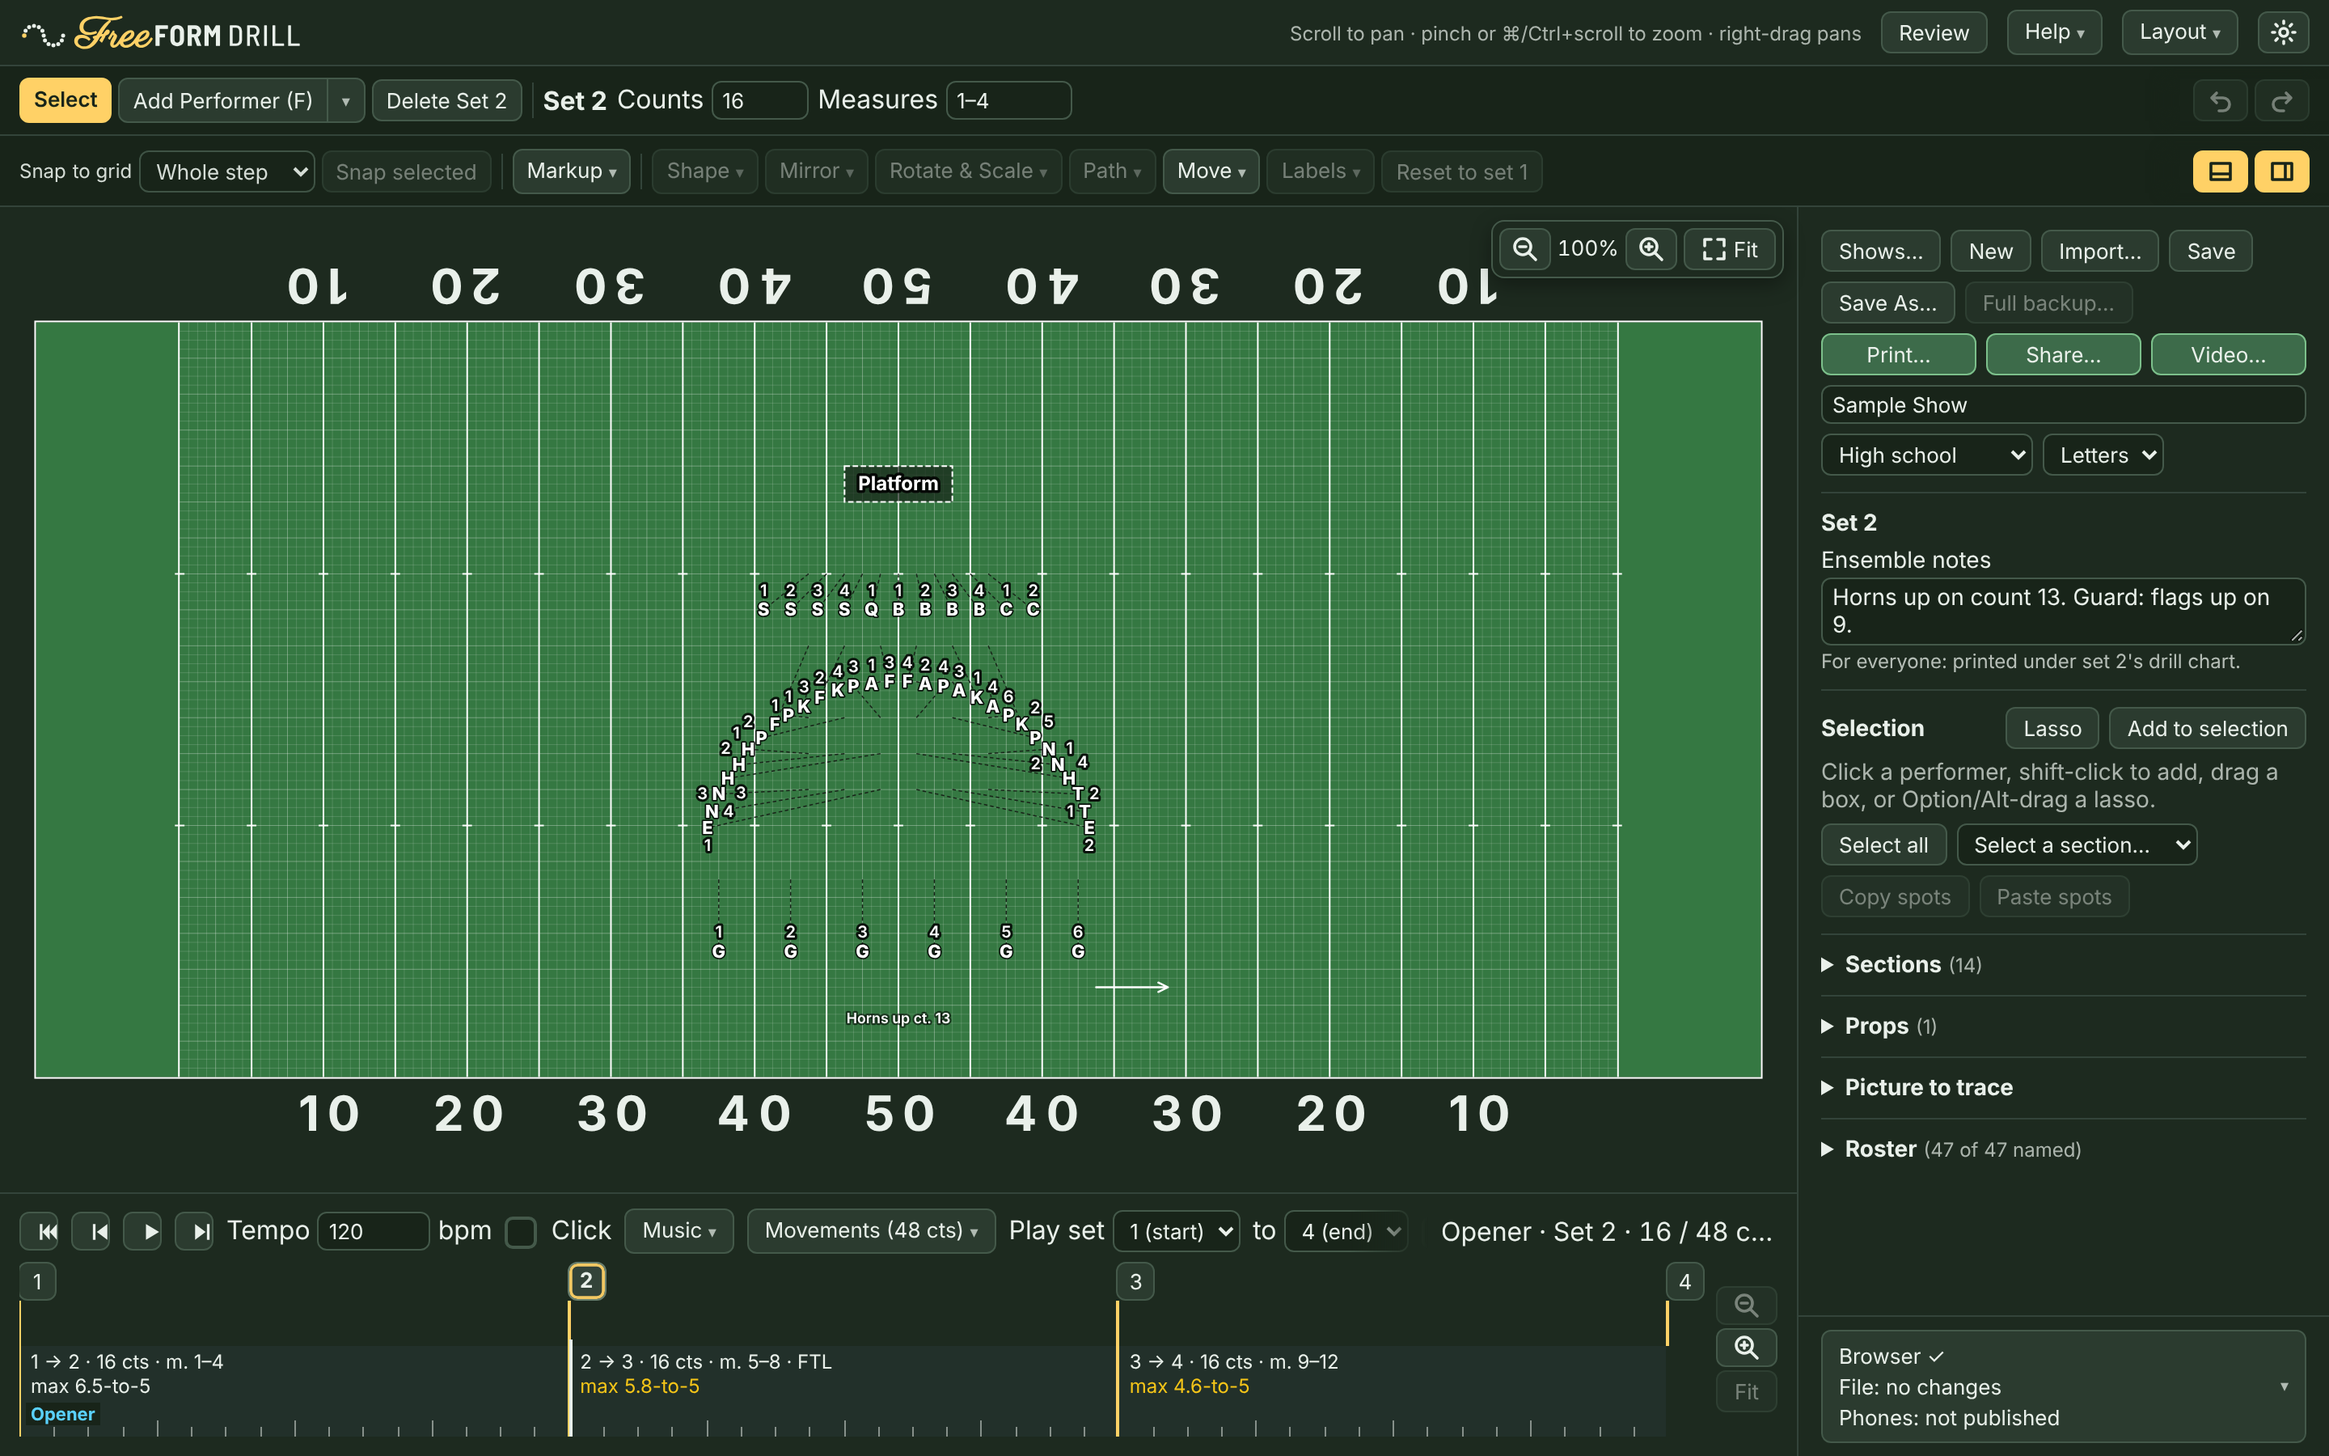
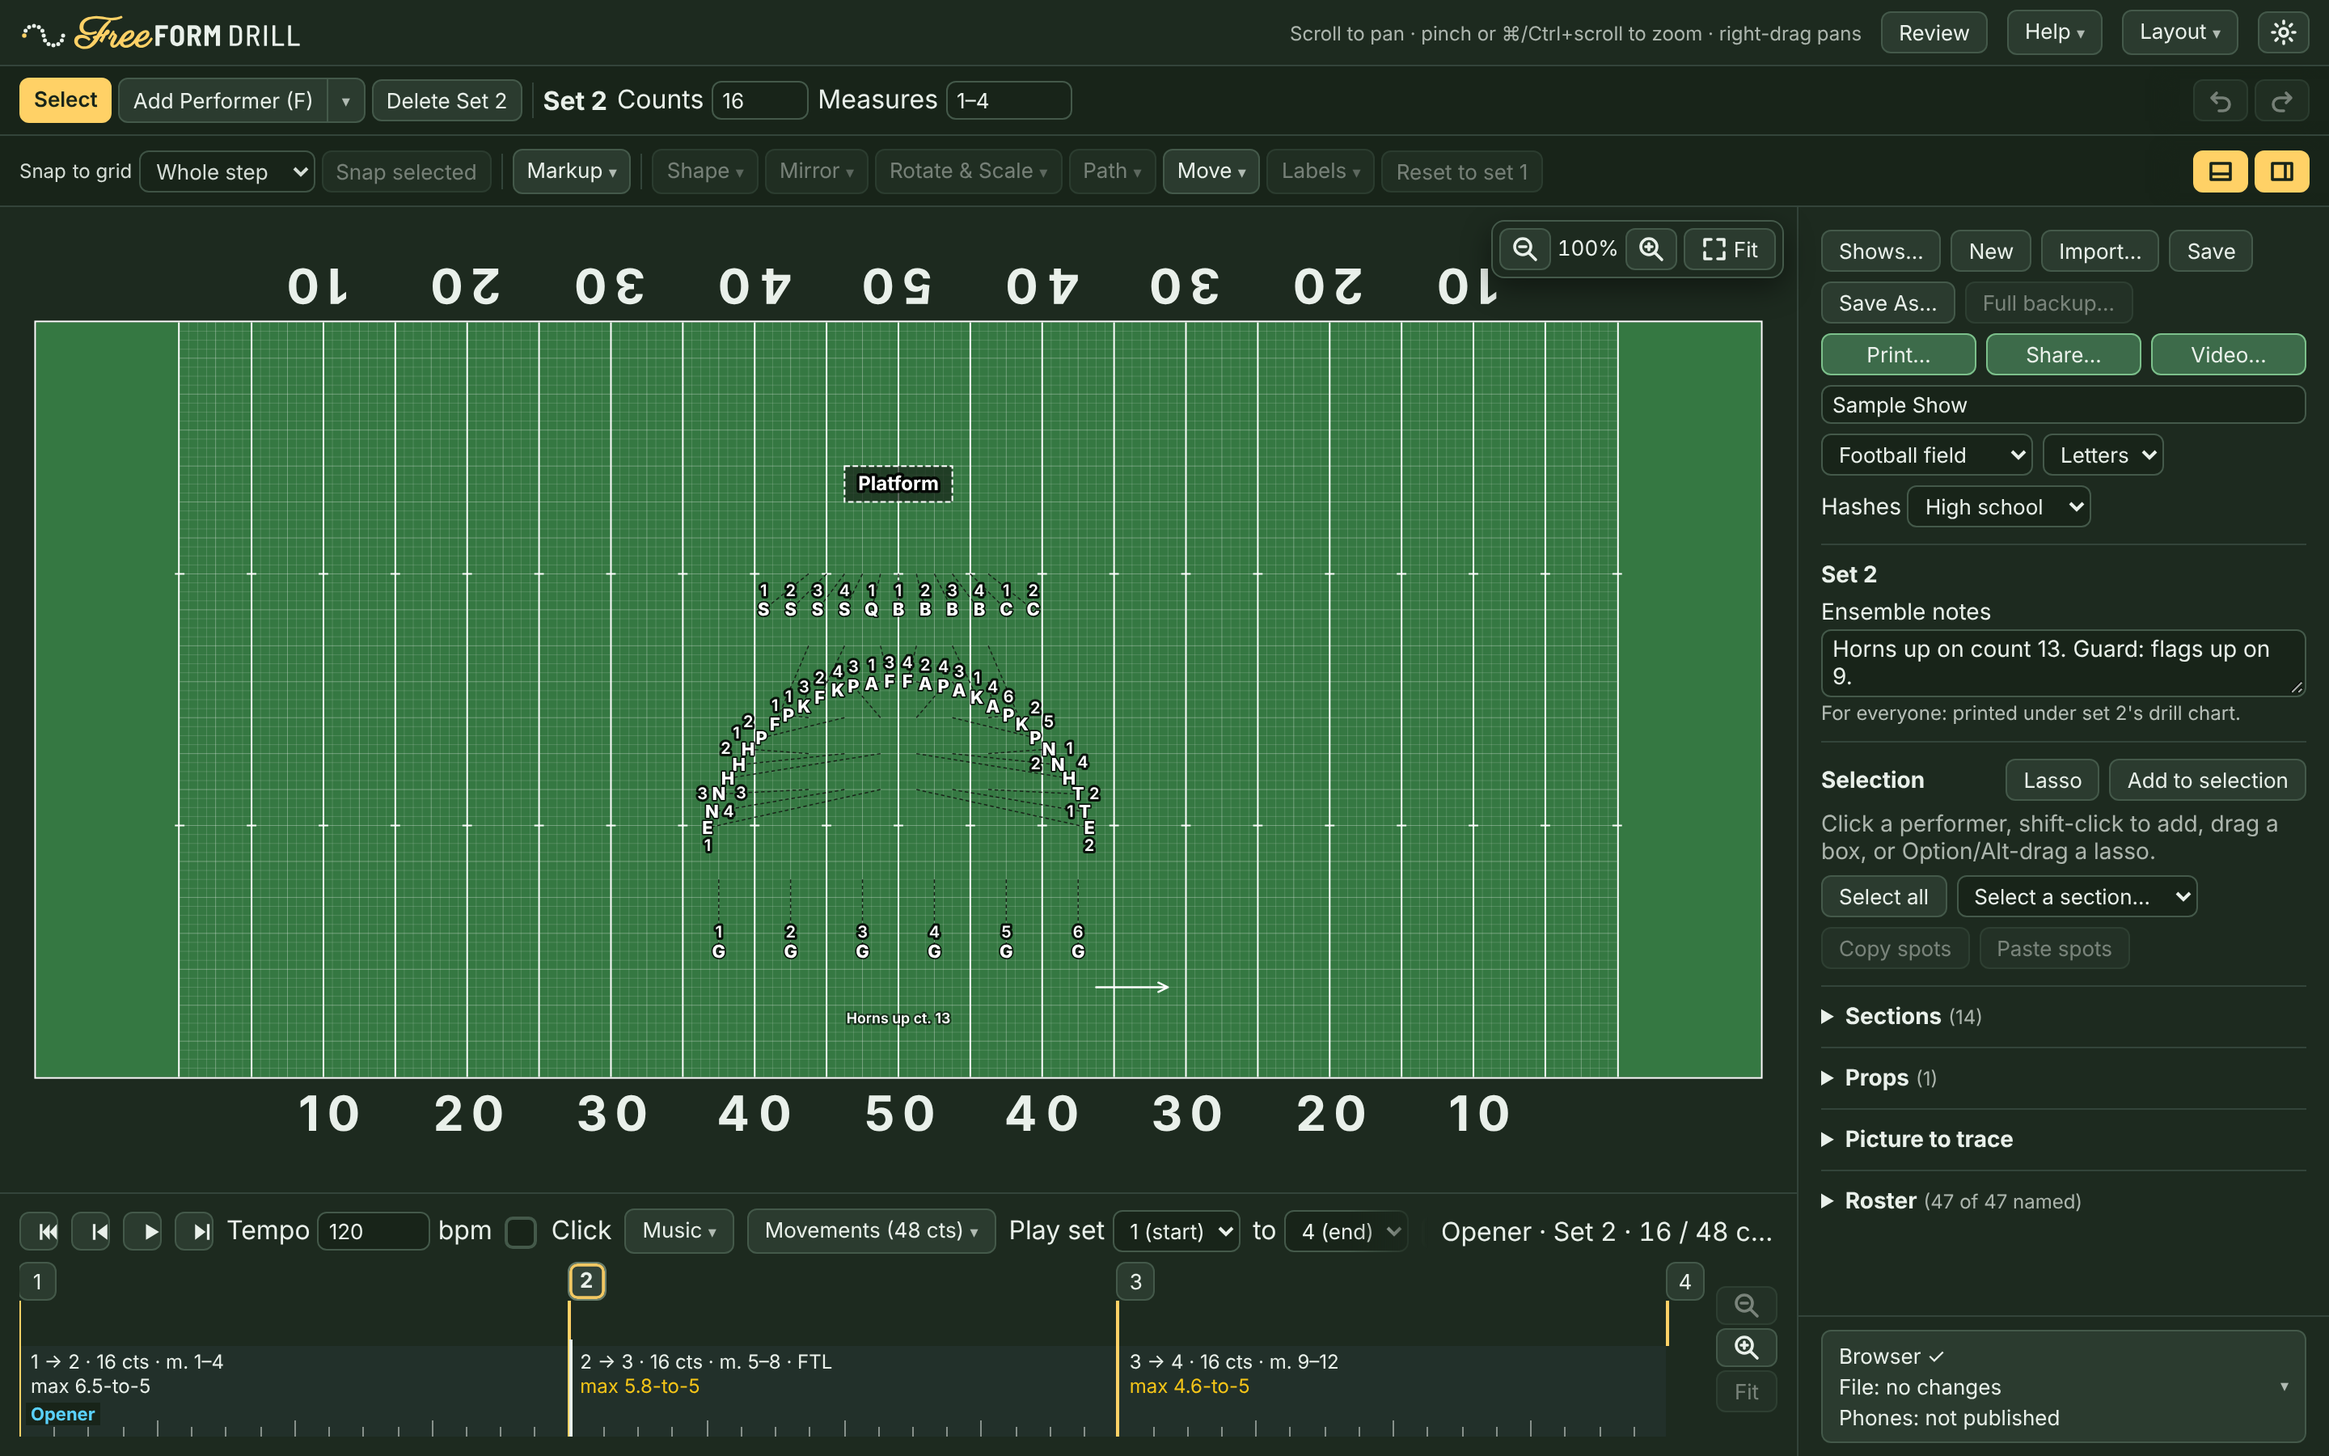
Field menu: Football field, then its hashes
The Field menu is now Football field, Basketball court, or Custom floor.
A Hashes menu (High school, College / DCI, NFL) sits beside it for a
football field, the way Wide and Deep do for a custom floor. Going back
outside keeps the show's earlier hashes, and changing hashes under
written drill still asks what should happen to it.

Claude-Session: https://claude.ai/code/session_012ak5ZS3L4T9KZWp1AvkgHU

Changed region(s): [[0.7812, 0.3111, 1.0, 0.84]]

diff --git a/src/ui/FieldPicker.tsx b/src/ui/FieldPicker.tsx
@@ -1,28 +1,38 @@
-// Choosing what a show is written on: the sidebar's menu, the New show dialog, and the blank field's Start note.
+// Choosing what a show is written on: the sidebar, the New show box, and the blank field's Start note.
+// Two steps: the surface (a football field, a basketball court, or a custom floor), then its details
+// (a football field's hashes, or a floor's size).
 import type React from 'react';
 import { COURT, DEFAULT_FLOOR, FEET, type FieldSpec, type HashPreset } from '../engine/coords';
 import { NumberField } from './NumberField';
 
 export const PRESETS: [HashPreset, string][] = [['highSchool', 'High school'], ['college', 'College / DCI'], ['nfl', 'NFL']];
-export const TITLE = 'What the show is written on: a football field (by its hashes), a basketball court, or a floor or tarp you size';
 
-/** The field menu. Picking a floor that's already a floor keeps its size. */
-export function FieldSelect({ value, onChange, style }: { value: FieldSpec; onChange: (f: FieldSpec) => void; style?: React.CSSProperties }) {
+/**
+ * The surface menu. Picking a football field again keeps the hashes; going back outside uses `outside` (the show's
+ * kept hashes); picking a floor that's already a floor keeps its size.
+ */
+export function FieldSelect({ value, onChange, outside = 'highSchool', style }: { value: FieldSpec; onChange: (f: FieldSpec) => void; outside?: HashPreset; style?: React.CSSProperties }) {
   return (
-    <select aria-label="Field" title={TITLE} style={style} value={typeof value === 'string' ? value : value.kind} onChange={(e) => {
-      const to = e.target.value;
-      onChange(to === 'court' ? COURT : to === 'floor' ? (typeof value !== 'string' && value.kind === 'floor' ? value : DEFAULT_FLOOR) : to as HashPreset);
-    }}>
-      {PRESETS.map(([k, l]) => <option key={k} value={k}>{l}</option>)}
+    <select aria-label="Field" title="What the show is written on: a football field, a basketball court, or a floor or tarp you size" style={style}
+      value={typeof value === 'string' ? 'football' : value.kind} onChange={(e) => {
+        const to = e.target.value;
+        onChange(to === 'court' ? COURT : to === 'floor' ? (typeof value !== 'string' && value.kind === 'floor' ? value : DEFAULT_FLOOR) : typeof value === 'string' ? value : outside);
+      }}>
+      <option value="football">Football field</option>
       <option value="court">Basketball court</option>
       <option value="floor">Custom floor</option>
     </select>
   );
 }
 
-/** A custom floor's Wide and Deep, in feet. */
-export function FloorSize({ value, onChange }: { value: FieldSpec; onChange: (f: FieldSpec) => void }) {
-  if (typeof value === 'string' || value.kind !== 'floor') return null;
+/** The surface's details: a football field's **Hashes**, or a custom floor's **Wide** and **Deep** in feet (a court has none). */
+export function FieldDetails({ value, onChange }: { value: FieldSpec; onChange: (f: FieldSpec) => void }) {
+  if (typeof value === 'string') return (
+    <label>Hashes <select aria-label="Hashes" title="The football field's hash marks: high school, college or DCI, or NFL" value={value} onChange={(e) => onChange(e.target.value as HashPreset)}>
+      {PRESETS.map(([k, l]) => <option key={k} value={k}>{l}</option>)}
+    </select></label>
+  );
+  if (value.kind !== 'floor') return null;
   return <>
     <label>Wide <NumberField aria-label="Floor width in feet" min={8} max={700} step={1} value={Math.round(value.w / FEET)} style={{ width: 56 }}
       onValue={(n) => onChange({ ...value, w: n * FEET })} /></label>

diff --git a/src/ui/Sidebar.tsx b/src/ui/Sidebar.tsx
@@ -15,7 +15,7 @@ import {
   type FrontDir, type FrontRef, type Section, type Show, type SideDir,
 } from '../engine/show';
 import { NumberField } from './NumberField';
-import { FieldSelect, FloorSize, PRESETS } from './FieldPicker';
+import { FieldSelect, FieldDetails, PRESETS } from './FieldPicker';
 import { useDialog } from './useDialog';
 
 export type Tool = 'select' | 'add' | 'text' | 'arrow' | 'draw' | 'turn'; // turn: click to add an FTL leader's turning points
@@ -103,10 +103,8 @@ export function Sidebar(p: Props) {
       {p.fileError && <div role="alert" style={{ color: 'var(--danger)', marginTop: 6 }}>{p.fileError}</div>}
       <div style={{ ...row, marginBottom: 10 }}>
         <input aria-label="Show title" value={show.title} onChange={(e) => setShow((s) => ({ ...s, title: e.target.value }))} style={{ flex: 1 }} />
-        <FieldSelect value={fieldOf(show)} onChange={(f) => {
-          // Other hashes under written drill: ask what should happen to it. Onto or off a floor, spots stay put in steps.
-          if (typeof f === 'string' && !show.surface && show.performers.length) setPendingHash(f);
-          else setShow((s) => withField(s, f));
+        <FieldSelect value={fieldOf(show)} outside={show.hash} onChange={(f) => {
+          setShow((s) => withField(s, f)); // onto or off a floor: spots stay put in steps
         }} />
         <select aria-label="Draw performers as" title="On the field, printed charts, and phones: the section letter labeled with the number, or a dot labeled P4"
           value={show.symbols ?? 'letters'} onChange={(e) => setShow((s) => { const { symbols: _, ...rest } = s, v = e.target.value; return v === 'dots' ? { ...rest, symbols: v } : rest; })}>
@@ -114,9 +112,13 @@ export function Sidebar(p: Props) {
           <option value="dots">Dots</option>
         </select>
       </div>
-      {show.surface?.kind === 'floor' && (
+      {show.surface?.kind !== 'court' && (
         <div style={{ ...row, marginTop: -4, marginBottom: 10 }}>
-          <FloorSize value={show.surface} onChange={(f) => setShow((s) => withField(s, f))} />
+          <FieldDetails value={fieldOf(show)} onChange={(f) => {
+            // Other hashes under written drill: ask what should happen to it.
+            if (typeof f === 'string' && show.performers.length) setPendingHash(f);
+            else setShow((s) => withField(s, f));
+          }} />
         </div>
       )}
       {show.surface && show.performers.some((x) => show.sets.some((st) => { const q = st.pos[x.id]; return q && (Math.abs(q.x) > show.surface!.w / 2 || q.y < 0 || q.y > show.surface!.d); })) && (

diff --git a/src/App.tsx b/src/App.tsx
@@ -20,7 +20,7 @@ import { Timeline } from './ui/Timeline';
 import { startingSections } from './ui/startingSections';
 import { saveStartingField, startingField } from './ui/startingField';
 import { NewShowDialog } from './ui/NewShow';
-import { FieldSelect, FloorSize } from './ui/FieldPicker';
+import { FieldSelect, FieldDetails } from './ui/FieldPicker';
 import { MusicMenu } from './ui/Music';
 import { getAudio, putAudio } from './ui/audioStore';
 import { addVersion, forgetShow, keepShow, listShows, loadShow, type Entry } from './ui/showStore';
@@ -396,7 +396,7 @@ export function App() {
   const pickField = (f: FieldSpec) => { setShow((s) => withField(s, f)); saveStartingField(f); };
   const startOptions = <>
     <span style={{ display: 'flex', gap: 6, alignItems: 'center', flexWrap: 'wrap', marginBottom: 6 }}>
-      Written on <FieldSelect value={fieldOf(show)} onChange={pickField} /> <FloorSize value={fieldOf(show)} onChange={pickField} />
+      Written on <FieldSelect value={fieldOf(show)} outside={show.hash} onChange={pickField} /> <FieldDetails value={fieldOf(show)} onChange={pickField} />
     </span>
     <span>Place performers on the field (or props first, like a stage or a backdrop), bring in a roster from Excel, or look around the sample show first. On a new computer? Open your show from its phone link or recovery code.</span>
     <span style={{ display: 'flex', gap: 8, flexWrap: 'wrap', marginTop: 6 }}>

diff --git a/src/ui/NewShow.tsx b/src/ui/NewShow.tsx
@@ -1,7 +1,7 @@
 // New show: name it and pick what it's written on before the blank field opens.
 import { useState } from 'react';
 import type { FieldSpec } from '../engine/coords';
-import { FieldSelect, FloorSize } from './FieldPicker';
+import { FieldSelect, FieldDetails } from './FieldPicker';
 import { startingField } from './startingField';
 import { useDialog } from './useDialog';
 
@@ -21,7 +21,7 @@ export function NewShowDialog({ onStart, onClose }: { onStart: (title: string, f
           <span>Written on</span>
           <span style={{ display: 'flex', gap: 6, alignItems: 'center', flexWrap: 'wrap' }}>
             <FieldSelect value={field} onChange={setField} />
-            <FloorSize value={field} onChange={setField} />
+            <FieldDetails value={field} onChange={setField} />
           </span>
           <span style={{ fontSize: 12, opacity: 0.75 }}>A football field by its hashes, a basketball court, or a floor or tarp you size. You can change it later in the sidebar.</span>
         </div>

diff --git a/docs/HOW-TO.md b/docs/HOW-TO.md
@@ -61,7 +61,7 @@ From top to bottom:
 
 ## Set up a new show
 
-Click **New** in the sidebar to start a show. A box asks for two things first: the show's **Title**, and what it's **Written on**: a football field (**High school**, **College / DCI**, or **NFL** hashes), a **Basketball court**, or a **Custom floor** with its **Wide** and **Deep** in feet (see step 2 below). It starts on whatever your last new show used, so a winter guard writer doesn't have to pick the floor every time. Click **Start the show**. You can change either one later in the sidebar. The show you had open stays in this browser: **Shows…** opens it again (see [Several shows: Opener, Ballad, Closer](#saving-backing-up-and-opening-files)).
+Click **New** in the sidebar to start a show. A box asks for two things first: the show's **Title**, and what it's **Written on**: a **Football field** (pick its **Hashes**: **High school**, **College / DCI**, or **NFL**), a **Basketball court**, or a **Custom floor** with its **Wide** and **Deep** in feet (see step 2 below). It starts on whatever your last new show used, so a winter guard writer doesn't have to pick the floor every time. Click **Start the show**. You can change either one later in the sidebar. The show you had open stays in this browser: **Shows…** opens it again (see [Several shows: Opener, Ballad, Closer](#saving-backing-up-and-opening-files)).
 
 ![The New show box, set to a custom floor](img/new-show.png)
 
@@ -74,7 +74,7 @@ When the field has no performers, the **Start your show** note in the middle of 
 ![The getting-started checklist](img/getting-started.png)
 
 1. **Name it.** Type the title in the box under the file buttons. It prints on every dot sheet and chart.
-2. **Pick your field.** You picked it when you started the show, and the menu under the title changes it. It has **High school**, **College / DCI**, and **NFL** for a football field, plus **Basketball court** and **Custom floor** for indoor shows (more on those just below). For a football field FreeFORM draws the field the way drill software does, with whole-step hashes:
+2. **Pick your field.** You picked it when you started the show, and the menu under the title changes it: **Football field**, or **Basketball court** and **Custom floor** for indoor shows (more on those just below). For a football field, the **Hashes** menu under it picks **High school**, **College / DCI**, or **NFL**. FreeFORM draws the field the way drill software does, with whole-step hashes:
 
    | Level | Sideline to hash / hash to hash / hash to sideline |
    |---|---|

diff --git a/DECISIONS.md b/DECISIONS.md
@@ -1629,3 +1629,8 @@ Each entry: timestamp, who decided, context, options considered, decision.
 - **Context:** The field menu sat in the sidebar under the title, so an indoor show started as a high school football field until you found it.
 - **Other options:** Leave it in the sidebar and point to it from the Start note only; a full-screen first-run picker before the editor opens; radio buttons for all five choices in the New box instead of the same menu the sidebar uses.
 - **Decision:** **New** (and **New show** under **Shows…**) opens a small **New show** box: **Title** and **Written on** (the same menu as the sidebar, with **Wide** and **Deep** for a custom floor), then **Start the show** or **Cancel**. It starts on the surface the last new show used, kept in this browser (`freeform:starting-field`, checked when read), so a guard director picks the floor once. A first visit still opens a blank show without asking, so the **Start your show** note on a blank field has the same **Written on** menu at its top; picking there also becomes the next new show's default. The menu and the floor size are one shared piece (`src/ui/FieldPicker.tsx`) in all three places. A blank title becomes "Untitled show".
+
+## 2026-11-11 20:35 EST: Football field, then its hashes
+- **Who:** Jason Tiller asked for one **Football field** choice with the hashes as a separate option; the layout is Claude's *(Jason can veto)*.
+- **Context:** The field menu listed **High school**, **College / DCI**, and **NFL** beside **Basketball court** and **Custom floor**, mixing surfaces with hash levels.
+- **Decision:** The **Field** menu is **Football field**, **Basketball court**, or **Custom floor**. Its details sit beside it in the New show box and the Start note, and on the row under the title in the sidebar: **Hashes** (**High school**, **College / DCI**, **NFL**) for a football field, **Wide** and **Deep** for a custom floor, nothing for a court. Going back to **Football field** from a floor uses the hashes the show had before. Changing **Hashes** under written drill still asks what should happen to it; switching surfaces never asks, since spots stay put in steps. The saved show is unchanged (`hash` and `surface`).
